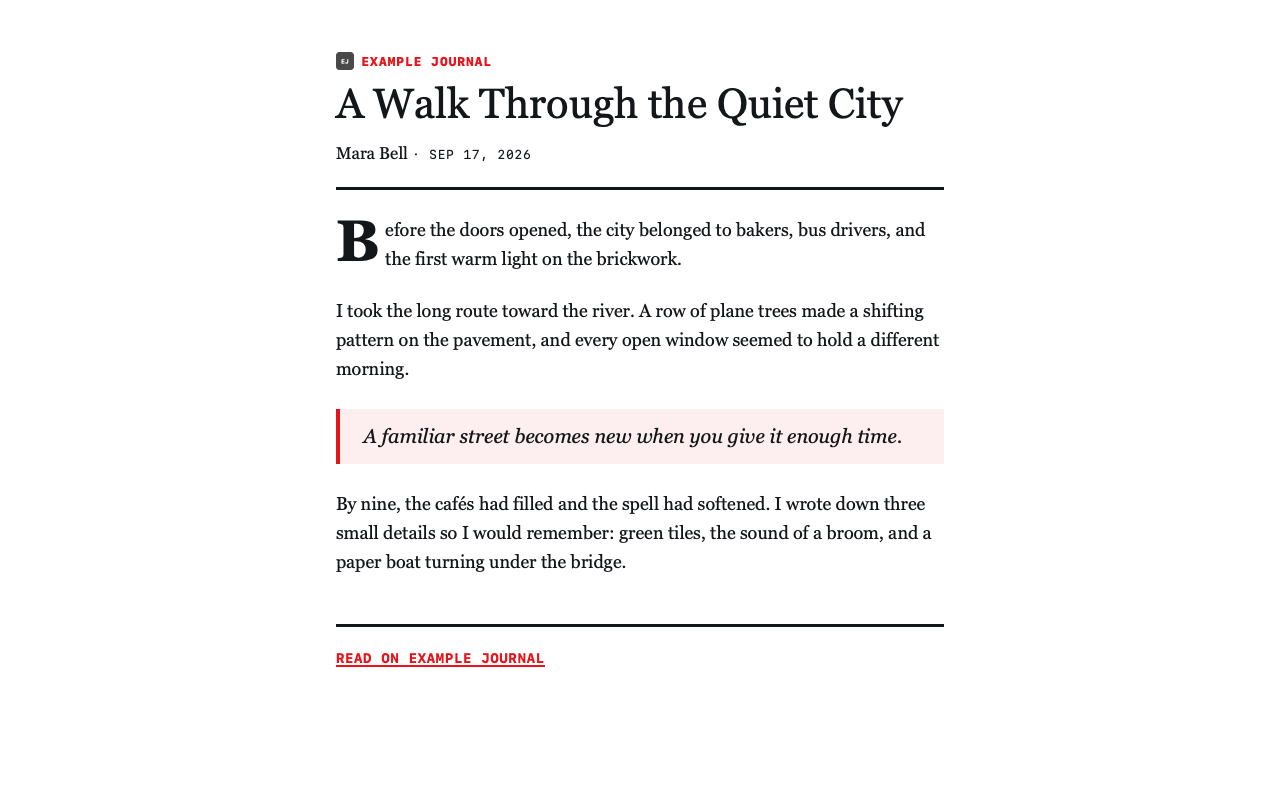
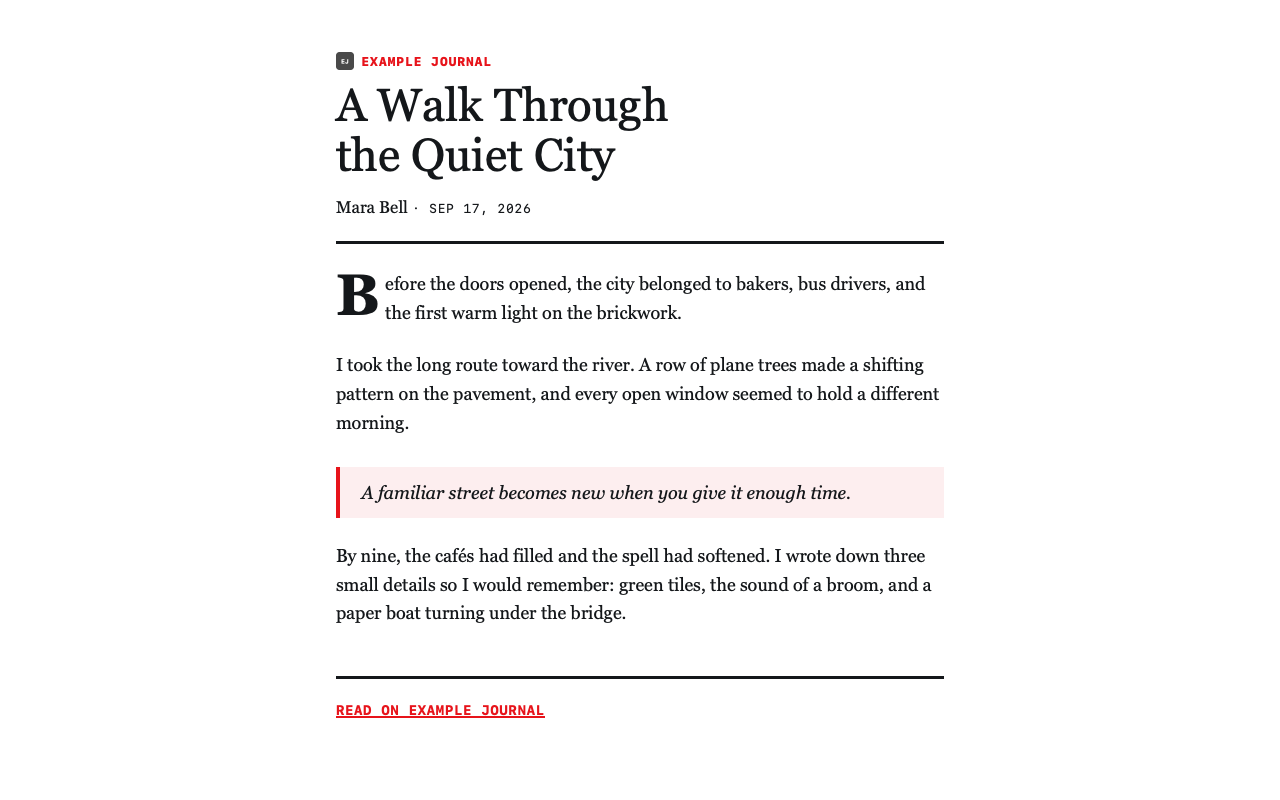
Style adjustments (#8)
* Increased the title size again

* Set the block quote size to be the same as the article

* Added more margin at the top of a block quote

* Updated the preview image

* Added a selector for the system message to render centered

* Version bump

Changed region(s): [[0.25, 0.0938, 0.75, 0.5625], [0.25, 0.5938, 0.7188, 0.7812], [0.25, 0.8125, 0.7188, 0.9062]]

diff --git a/Atlantic Breeze.nnwtheme/stylesheet.css b/Atlantic Breeze.nnwtheme/stylesheet.css
@@ -89,7 +89,7 @@ h1, h2, h3, h4, h5, h6 {
 }
 
 h1 {
-  font-size: clamp(1.6rem, 5.35vw, 2.6rem);
+  font-size: clamp(1.76rem, 5.885vw, 2.86rem);
   font-weight: 400;
   margin: 0.6rem 0 0.9rem;
 }
@@ -157,9 +157,9 @@ blockquote {
   clear: left;
   color: var(--text);
   font-family: var(--headline-font);
-  font-size: 1.1em;
   font-style: italic;
   margin-inline: 0;
+  margin-top: 1.7em;
   padding: 0.6em 1em 0.6em 1.2em;
   text-align: left;
 }
@@ -189,6 +189,14 @@ figcaption {
 }
 
 .nnw-overflow { overflow-x: auto; }
+
+.systemMessage {
+  color: var(--muted);
+  position: absolute;
+  top: 50%;
+  left: 50%;
+  transform: translate(-50%, -50%);
+}
 
 table { border-collapse: collapse; font-family: var(--code-font); font-size: 0.9em; width: 100%; }
 th, td { border-bottom: 1px solid var(--rule); padding: 0.6rem 0.75rem; text-align: left; vertical-align: top; }
